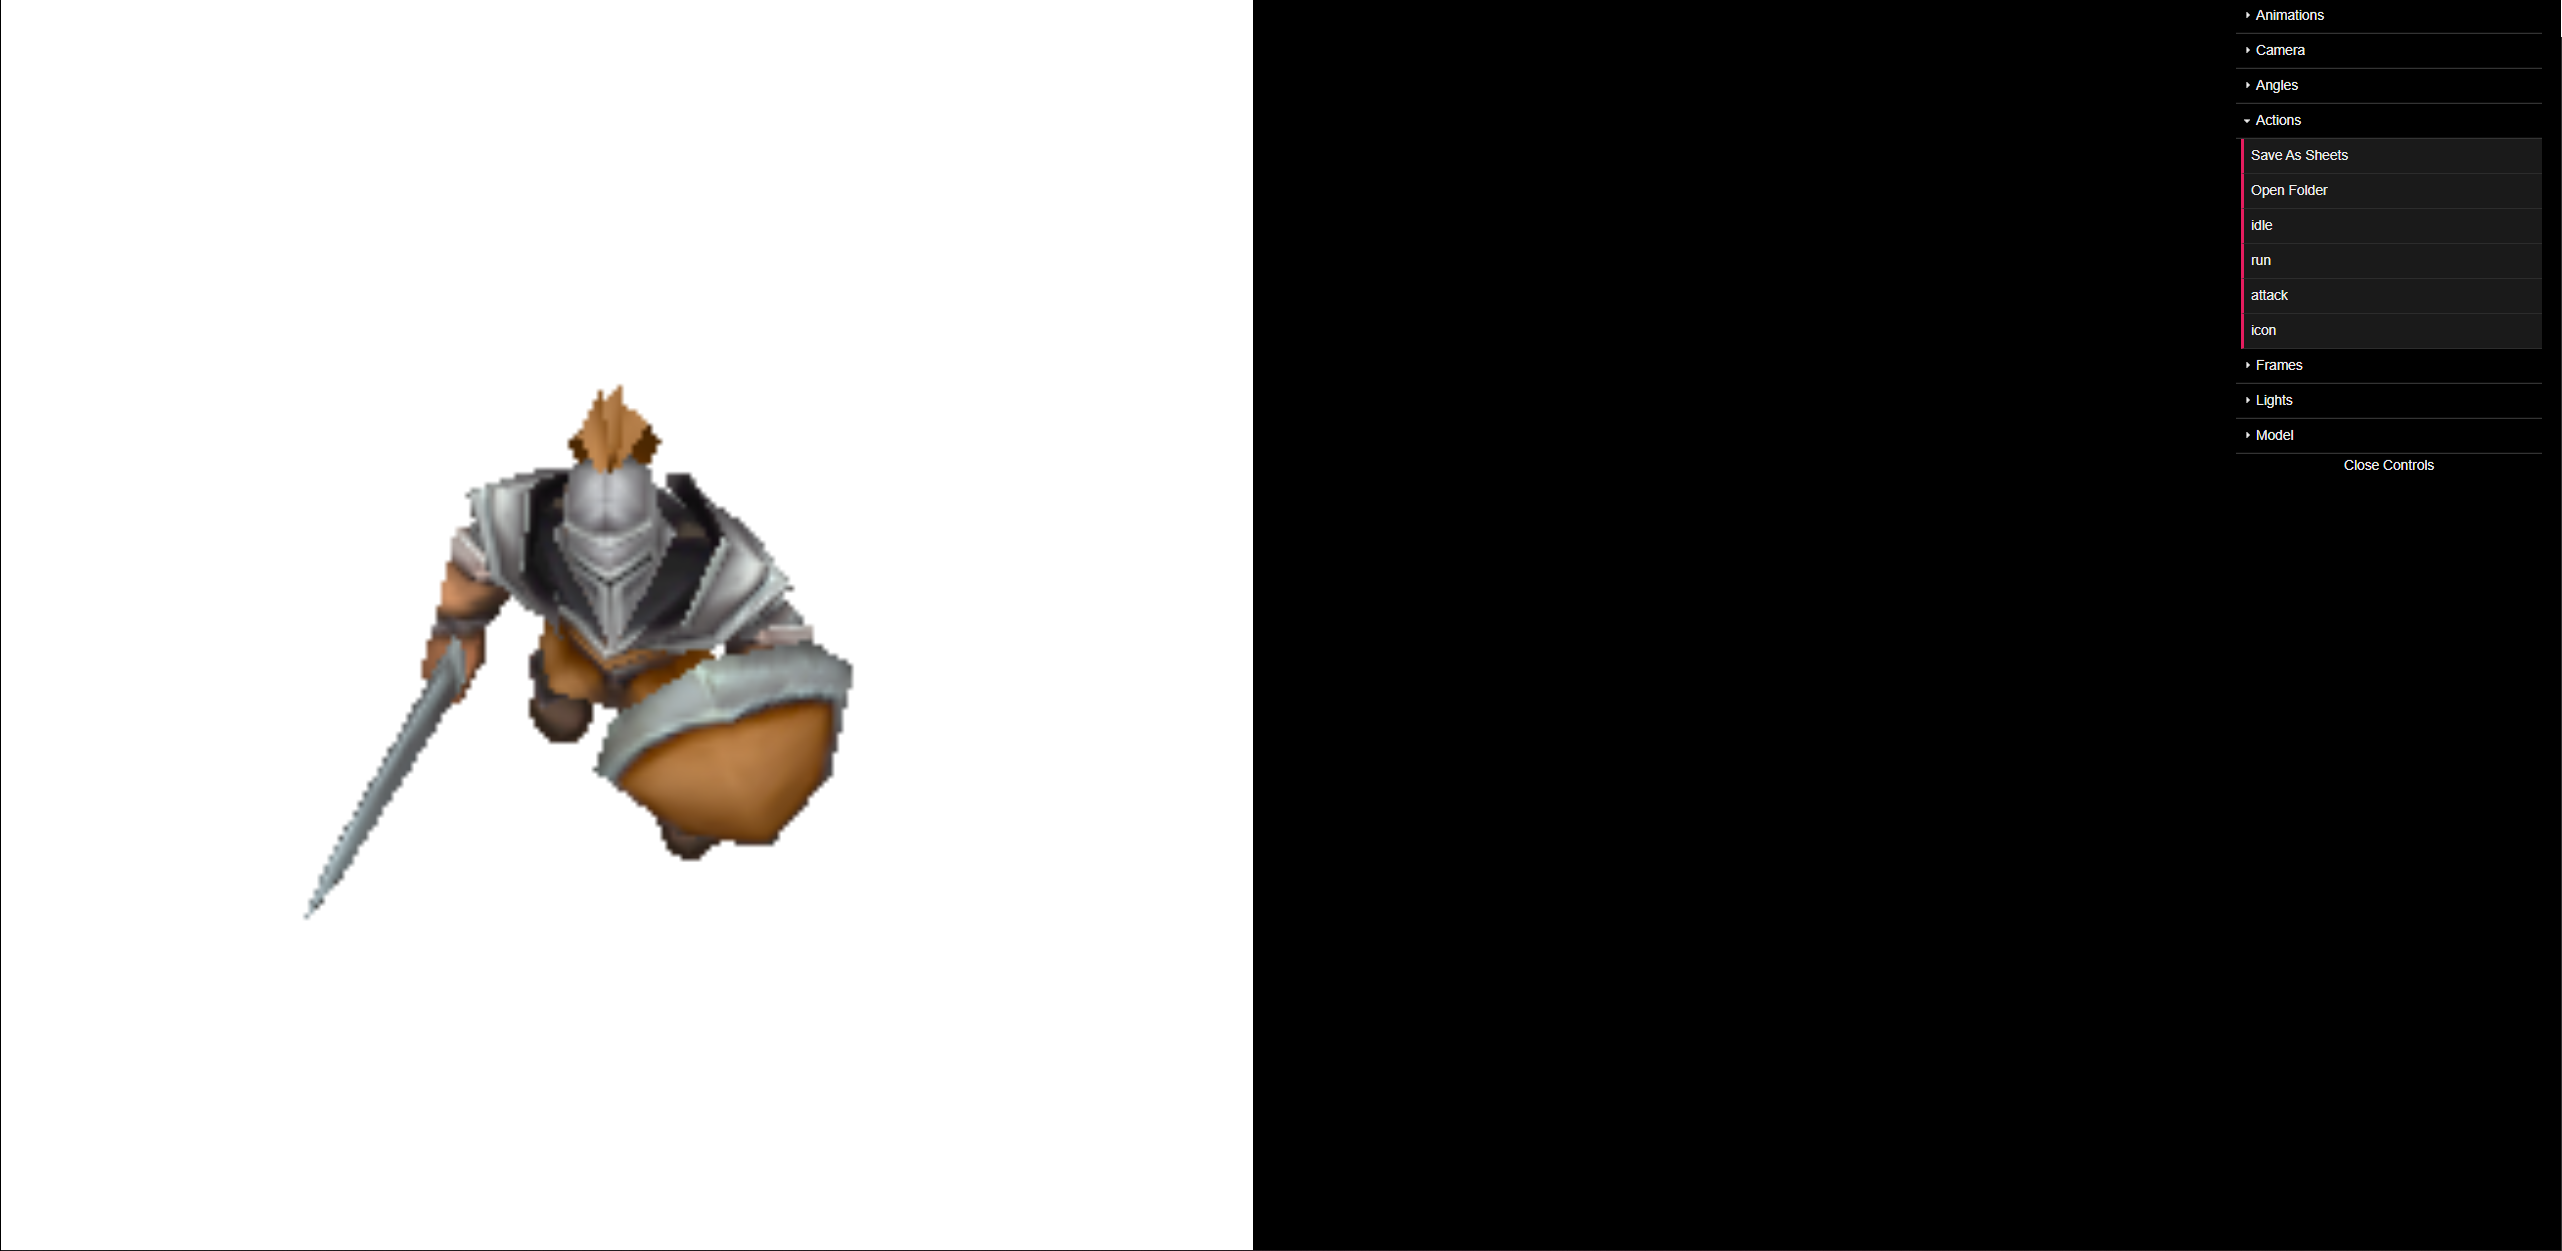
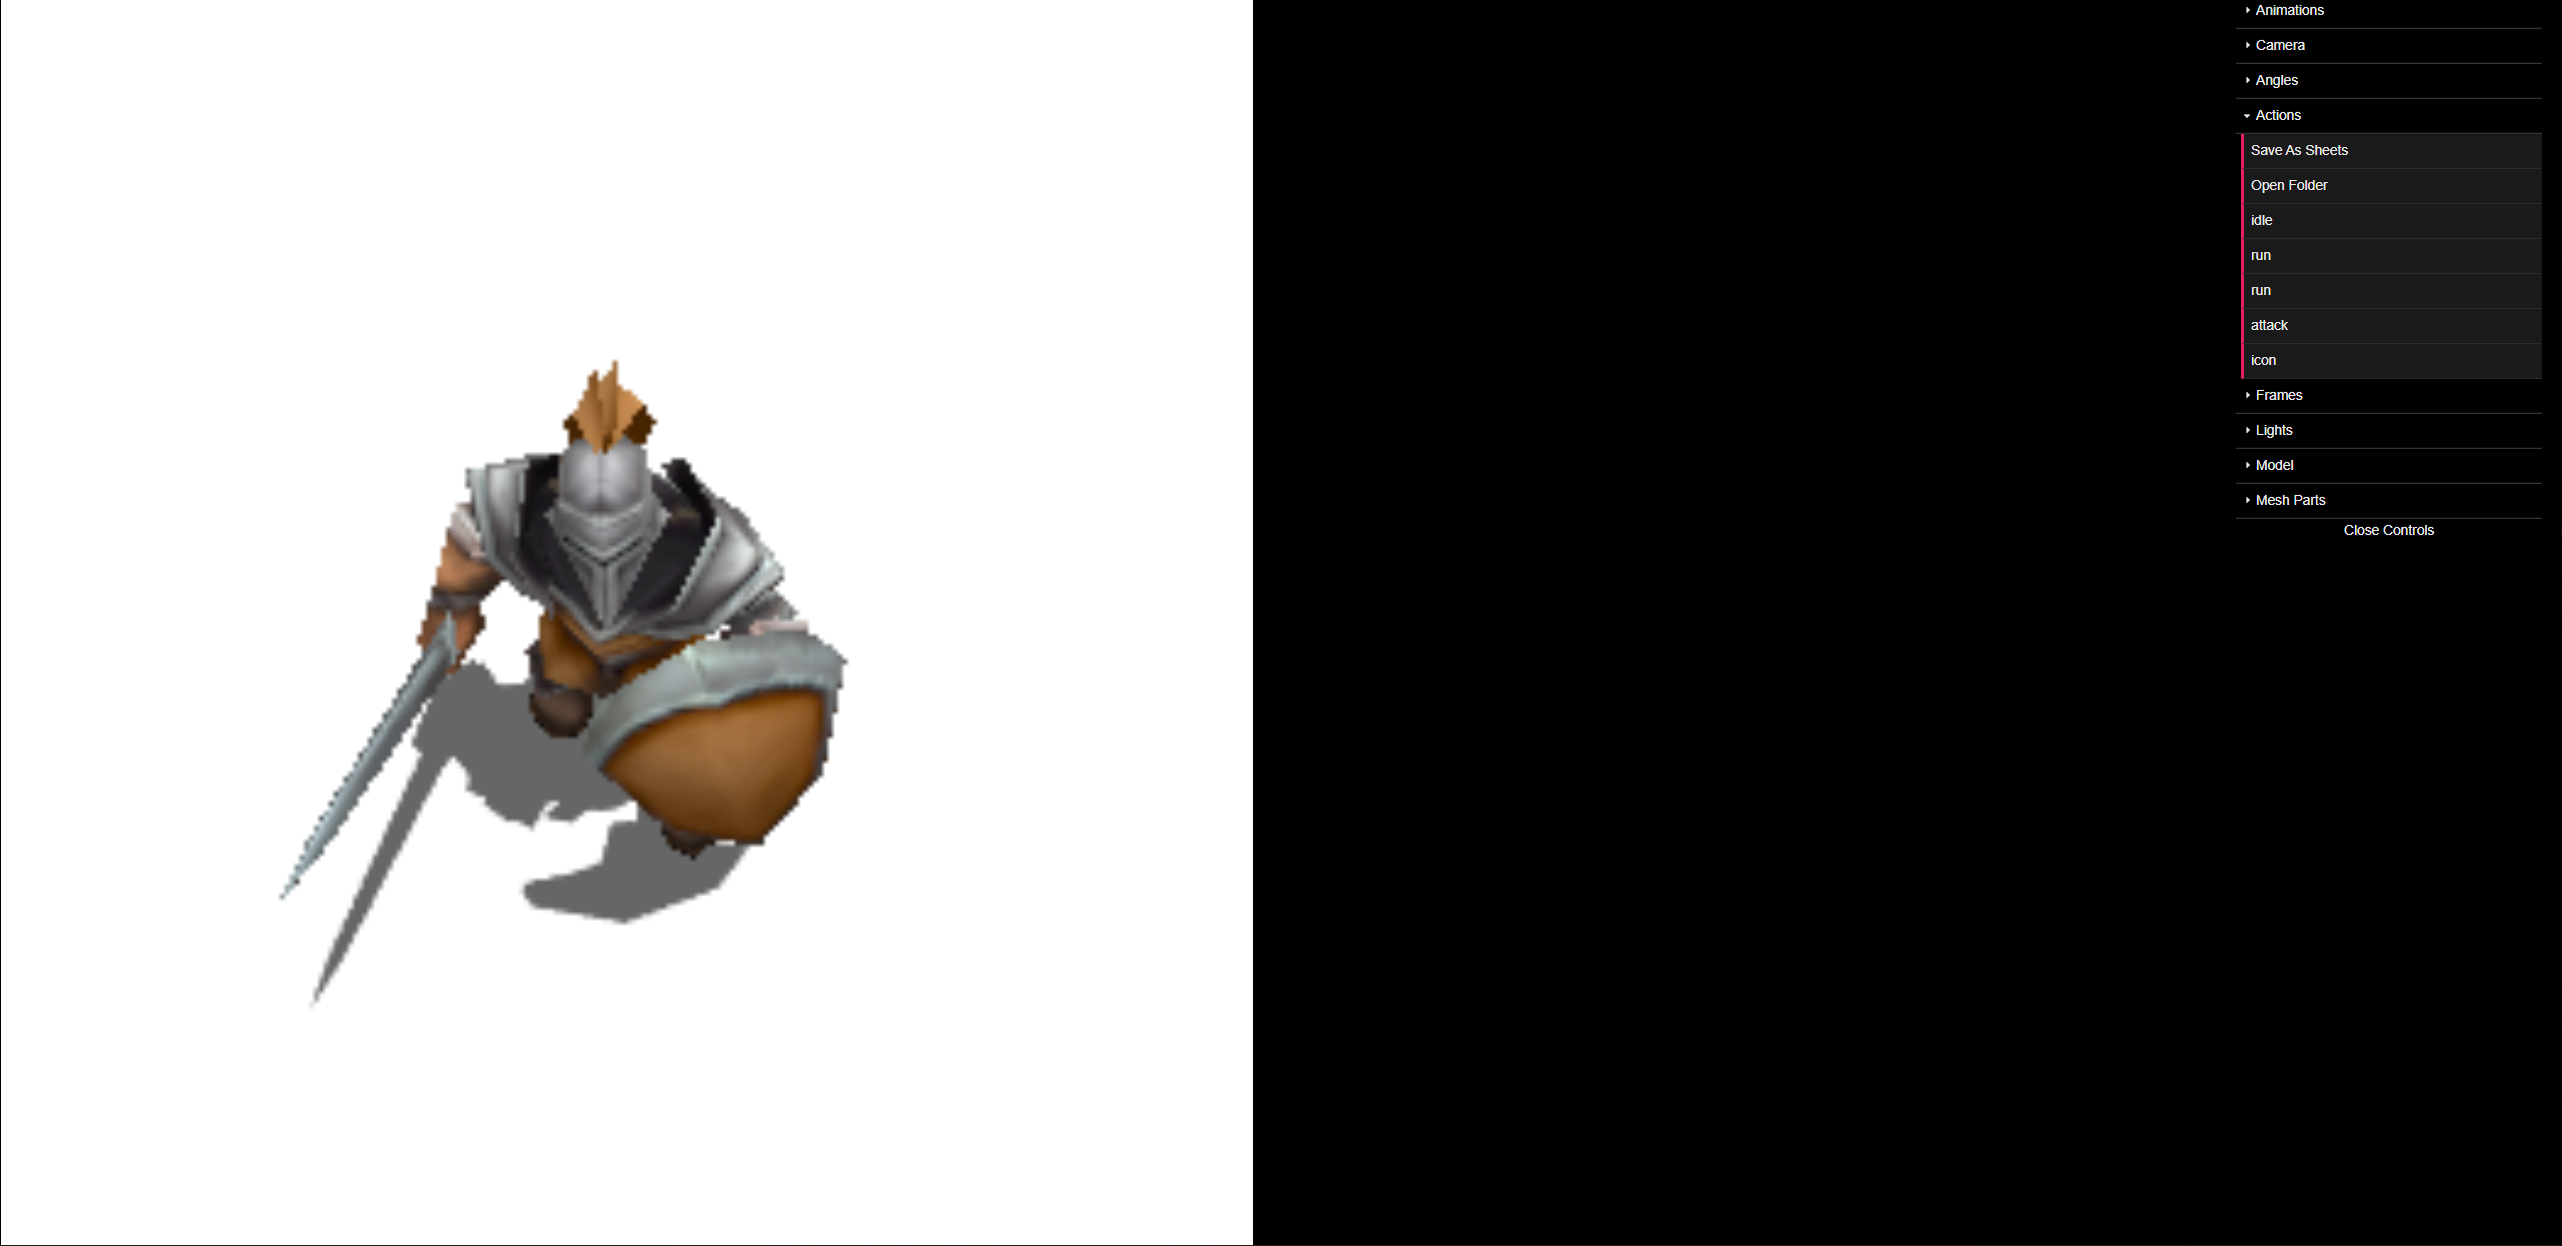
Add optional ground shadows

Changed region(s): [[0.0937, 0.2745, 0.3435, 0.7929], [0.8743, 0.0, 1.0, 1.0], [0.8743, 0.0, 0.9368, 0.183]]

diff --git a/src/App.vue b/src/App.vue
@@ -45,7 +45,12 @@ export default {
 				sheetSize: 4096,
 				distance: 1,
 				viewAngle: 0,
-				compressPNG: true
+				compressPNG: true,
+				shadows: true,
+				shadowHeightAngle: 0,
+				shadowSideAngle: 0,
+				shadowDistance: 0,
+				shadowOpacity: 0
 			},
 			angles: null,
 			angleNames: null,
@@ -359,7 +364,8 @@ export default {
 			let angles = this.angles[angleName] || this.angles.spritesheet;
 			this.camera.position.set(...angles.position);
 			this.controls.target.set(...angles.target);
-			this.directionalLight.position.copy(this.camera.position);
+			this.directionalLight.position.set(...angles.light);
+			this.directionalLight.castShadow = this.recordParams.shadow;
 
 			let startAngle = this.config.startAngle || 270;
 			let angle = angleName;
@@ -367,6 +373,8 @@ export default {
 				angle = angles.startAngle;
 			}
 			this.currentModel.rotation.set(0, angleToRadians(angle - startAngle), 0);
+			this.currentAngleName = angleName;
+			this.floorMaterial.opacity = this.recordParams.shadowOpacity;
 
 			if(this.config) {
 				let angleConfig = this.config.animations[angleName] || this.config[angleName];
@@ -400,6 +408,11 @@ export default {
 			if(config.frameSize) {
 				this.setRenderSize(config.frameSize);
 			}
+			this.recordParams.shadow = config.shadow !== undefined ? config.shadow : true;
+			this.recordParams.shadowHeightAngle = config.shadowHeightAngle !== undefined ? config.shadowHeightAngle : 90;
+			this.recordParams.shadowSideAngle = config.shadowSideAngle !== undefined ? config.shadowSideAngle : 70;
+			this.recordParams.shadowDistance = config.shadowDistance !== undefined ? config.shadowDistance : (this.recordParams.distance || 1);
+			this.recordParams.shadowOpacity = config.shadowOpacity !== undefined ? config.shadowOpacity : (0.6);
 
 			let filenames = [config.model, config.texture, ...Object.values(config.animations).map(animation => animation.name)];
 			if(files) {
@@ -484,6 +497,13 @@ export default {
 
 			let model = this.currentModel = await fbxLoadPromise(fbxLoader, modelName);
 			model.scale.set(0.01, 0.01, 0.01);
+
+			model.traverse(it => {
+				if(it.isMesh) {
+					it.receiveShadow = false;
+					it.castShadow = true;
+				}
+			});
 			this.mixer = new THREE.AnimationMixer(model);
 
 			var box = new THREE.Box3().setFromObject(model);
@@ -492,6 +512,7 @@ export default {
 				y: box.max.y - box.min.y,
 				z: box.max.z - box.min.z
 			};
+			this.floorPlane.position.set(0, box.min.y, 0);
 			this.angles = generateAngles(this.modelDimensions, this.config, this.recordParams);
 			this.updateAngle('270');
 
@@ -731,6 +752,17 @@ export default {
 
 		const light2  = new THREE.DirectionalLight(0xFFFFFF, 0.8 * Math.PI);
 		light2.name = 'main_light';
+		light2.castShadow = true;
+		light2.shadow.mapSize.width = 2048;
+		light2.shadow.mapSize.height = 2048;
+
+		light2.shadow.camera.top = 2;
+		light2.shadow.camera.bottom = -2;
+		light2.shadow.camera.left = -2;
+		light2.shadow.camera.right = 2;
+		light2.shadow.camera.near = 0.1;
+		light2.shadow.camera.far = 500;
+		
 		scene.add(light2);
 		this.directionalLight = light2;
 
@@ -751,9 +783,9 @@ export default {
 			preserveDrawingBuffer: true,
 			alpha: true
 		});
-
 		renderer.setSize(this.recordParams.frameSize, this.recordParams.frameSize);
 		renderer.gammaOutput = true;
+		renderer.shadowMap.enabled = true;
 
 		this.$el.appendChild(renderer.domElement);
 
@@ -821,6 +853,38 @@ export default {
 		lightsFolder.add(light1, 'intensity', 0, 5).name('Ambient Light').step(0.01).listen();
 		lightsFolder.add(light2, 'intensity', 0, 5).name('Directional Light').step(0.01).listen();
 		lightsFolder.add(hemiLight, 'intensity', 0, 5).name('Hemisphere Light').step(0.01).listen();
+		lightsFolder.add(this.recordParams, 'shadow').name('Shadows').listen().onChange(() => {
+			this.updateAngle(this.currentAngleName);
+		});
+		lightsFolder.add(this.recordParams, 'shadowHeightAngle', 1, 179).name('Shadow Height Angle').listen().onChange(() => {
+			this.angles = generateAngles(this.modelDimensions, this.config, this.recordParams);
+			this.updateAngle(this.currentAngleName);
+		});
+		lightsFolder.add(this.recordParams, 'shadowSideAngle', 1, 179).name('Shadow Side Angle').listen().onChange(() => {
+			this.angles = generateAngles(this.modelDimensions, this.config, this.recordParams);
+			this.updateAngle(this.currentAngleName);
+		});
+		lightsFolder.add(this.recordParams, 'shadowDistance', 0.1, 5).step(0.05).name('Shadow Distance').listen().onChange(() => {
+			this.angles = generateAngles(this.modelDimensions, this.config, this.recordParams);
+			this.updateAngle(this.currentAngleName);
+		});
+		
+		lightsFolder.add(this.recordParams, 'shadowOpacity', 0.05, 1).step(0.05).name('Shadow Opacity').listen().onChange(() => {
+			this.updateAngle(this.currentAngleName);
+		});
+
+
+		let floorGeometry = new THREE.PlaneBufferGeometry(2000, 2000, 8, 8);
+		let floorMaterial = new THREE.ShadowMaterial({
+			opacity : 0.8
+		});
+		let floorPlane = new THREE.Mesh(floorGeometry, floorMaterial);
+		floorPlane.castShadow = false;
+		floorPlane.receiveShadow = true;
+		floorPlane.rotateX(-Math.PI / 2);
+		this.floorPlane = floorPlane;
+		this.floorMaterial = floorMaterial;
+		scene.add(floorPlane);
 
 		const clock = new THREE.Clock();
 

diff --git a/src/utils/generate-angles.js b/src/utils/generate-angles.js
@@ -1,9 +1,12 @@
 export default function generateAngles(modelDimensions, config, recordParams) {
-	let distanceMultiplier = recordParams.distance || 1;
-	let distance = Math.max(modelDimensions.x, modelDimensions.y, modelDimensions.z) * distanceMultiplier;
+	let baseDistance = Math.max(modelDimensions.x, modelDimensions.y, modelDimensions.z);
+	let distance = baseDistance * (recordParams.distance || 1);
+	let shadowDistance = baseDistance * (recordParams.shadowDistance || 1);
 
 	let baseAngle = angleToRadians(90);
 	let viewAngle = angleToRadians(recordParams.viewAngle);
+	let shadowSideAngle = angleToRadians(180 - recordParams.shadowSideAngle);
+	let shadowHeightAngle = angleToRadians(180 - recordParams.shadowHeightAngle);
 
 	let iconParams = {
 		position: getSphereAngle(distance * 0.25, {
@@ -12,6 +15,7 @@ export default function generateAngles(modelDimensions, config, recordParams) {
 			z: modelDimensions.z
 		}, baseAngle, 0),
 		target: [0, (modelDimensions.y / 2) * 1.6, 0],
+		light: getSphereAngle(shadowDistance, modelDimensions, shadowSideAngle, shadowHeightAngle),
 		startAngle: 270
 	};
 	if(config && config.icon && config.icon.camera) {
@@ -24,7 +28,8 @@ export default function generateAngles(modelDimensions, config, recordParams) {
 	return {
 		spritesheet: {
 			position: getSphereAngle(distance, modelDimensions, baseAngle, viewAngle),
-			target: [0, modelDimensions.y / 2, 0]
+			target: [0, modelDimensions.y / 2, 0],
+			light: getSphereAngle(shadowDistance, modelDimensions, shadowSideAngle, shadowHeightAngle)
 		},
 		icon: iconParams
 	};

diff --git a/README.md b/README.md
@@ -1,5 +1,7 @@
 # Convert FBX 3D models to 2D spritesheets
-Convert FBX 3D models to 9-directional 2D spritesheets.  Only tested with a few FBX models, so others will probably need additional work.  Works by dragging a group of files onto the page to load a new model.  There is also an option to open the folder directly and save without requiring you to download a zip of files.  Only right poses are generated since you can just flip during render to get a left version.
+Convert FBX 3D models to 16-directional 2D spritesheets.  Only tested with a few FBX models, so others will probably need additional work.  Works by dragging a group of files onto the page to load a new model.  There is also an option to open the folder directly and save without requiring you to download a zip of files.  Only right poses are generated since you can just flip during render to get a left version.
+
+View demo at https://daneren2005.github.io/3d-to-spritesheet/
 
 ![Screenshot](https://github.com/daneren2005/3d-to-spritesheet/blob/dev/readme/demo-preview.png?raw=true)
 
@@ -33,9 +35,25 @@ You need to include the base model, texture, and any animations to be rendered. 
 
 You can view each of the loaded animations from the animations tab.  You can generate individual animation frames or an entire spritesheet all at once for all animations from the Actions tab.  Defaults to 4 frames per animation and 256px frames on a 4096px sheet These options can be configured in the Frames tab or in the config file.
 
-The view angle defaults to 60 degrees, and can be configured with `"viewAngle": 45`.  The distance defaults to 1.25x the models size away, and can be configured with `"distance": 1.5`.  Both of these can be played with on the Models tab to see what the optimal settings are.  The number of angles generated for each animation defaults to 16 (seems to give pretty close to real 3d movement), but can be configured with `"anglesCount": 8`.
+The view angle defaults to 60 degrees, and can be configured with `"viewAngle": 45`.  The distance defaults to 1.25x the models size away, and can be configured with `"distance": 1.5`.  Both of these can be played with on the Models tab to see what the optimal settings are.  The number of angles generated for each animation defaults to 16 (seems to give pretty close to real 3d movement), but can be configured with `"anglesCount": 8`.  Shadow defaults to on and slightly to the right, but can configured.
 
-View at https://daneren2005.github.io/3d-to-spritesheet/
+## `config.json` params
+| Param  | Default | Description |
+| ------------- | ------------- | ------------- |
+| name 				| <b>REQUIRED</b>	| Name that the zip file and the spritesheet is named |
+| model 			| <b>REQUIRED</b>	| Filename of the model we are loading |
+| texture 			| <b>REQUIRED</b>	| Filename of the model's texture |
+| animations 		| <b>REQUIRED</b>	| Object containing a list of named animations.  In the example for "idle" above, the name is the filename of the file containing the animation, and the frames is how many frames that animation is rendered for.  Animations default to 4 frames if not specified. |
+| distance 			| 1.25 				| Distance away from the model.  1 means the camera is equal to the greatest x, y, or z size of the model reported by Three JS |
+| viewAngle 		| 60 				| The angle that the camera is looking down at the model |
+| anglesCount 		| 16 				| The number of angles that are captured around the model.  Most basic pixel art is only done with 4 angles (left, right, up, down).  16 seems to give Starcraft 1 levels of quality. |
+| frameSize 		| 256 				| How many pixels each frame takes up. The default of 256 / 4096 allows for 256 frames per sheet.  128 seems to be the sweet spot for good enough small file sizes.  256 looks pretty good but is significantly larger than 128.  YMMV depending on how close your camera is to the units. |
+| sheetSize 		| 4096 				| The total size of each sprite sheet. Different devices have different limitations on the size of a single texture. |
+| shadow 			| true 				| Whether to render with shadow |
+| shadowHeightAngle | 90 				| The angle above the model that the light is casting a shadow from |
+| shadowSideAngle 	| 70 				| The angle to the side of the model that the light is casting a shadow from |
+| shadowDistance 	| 1.25 				| The distance from the model that light is casting a shadow from |
+| shadowOpacity 	| 0.6 				| How light or dark the shadow is |
 
 ## Project setup and running/building
 ```
